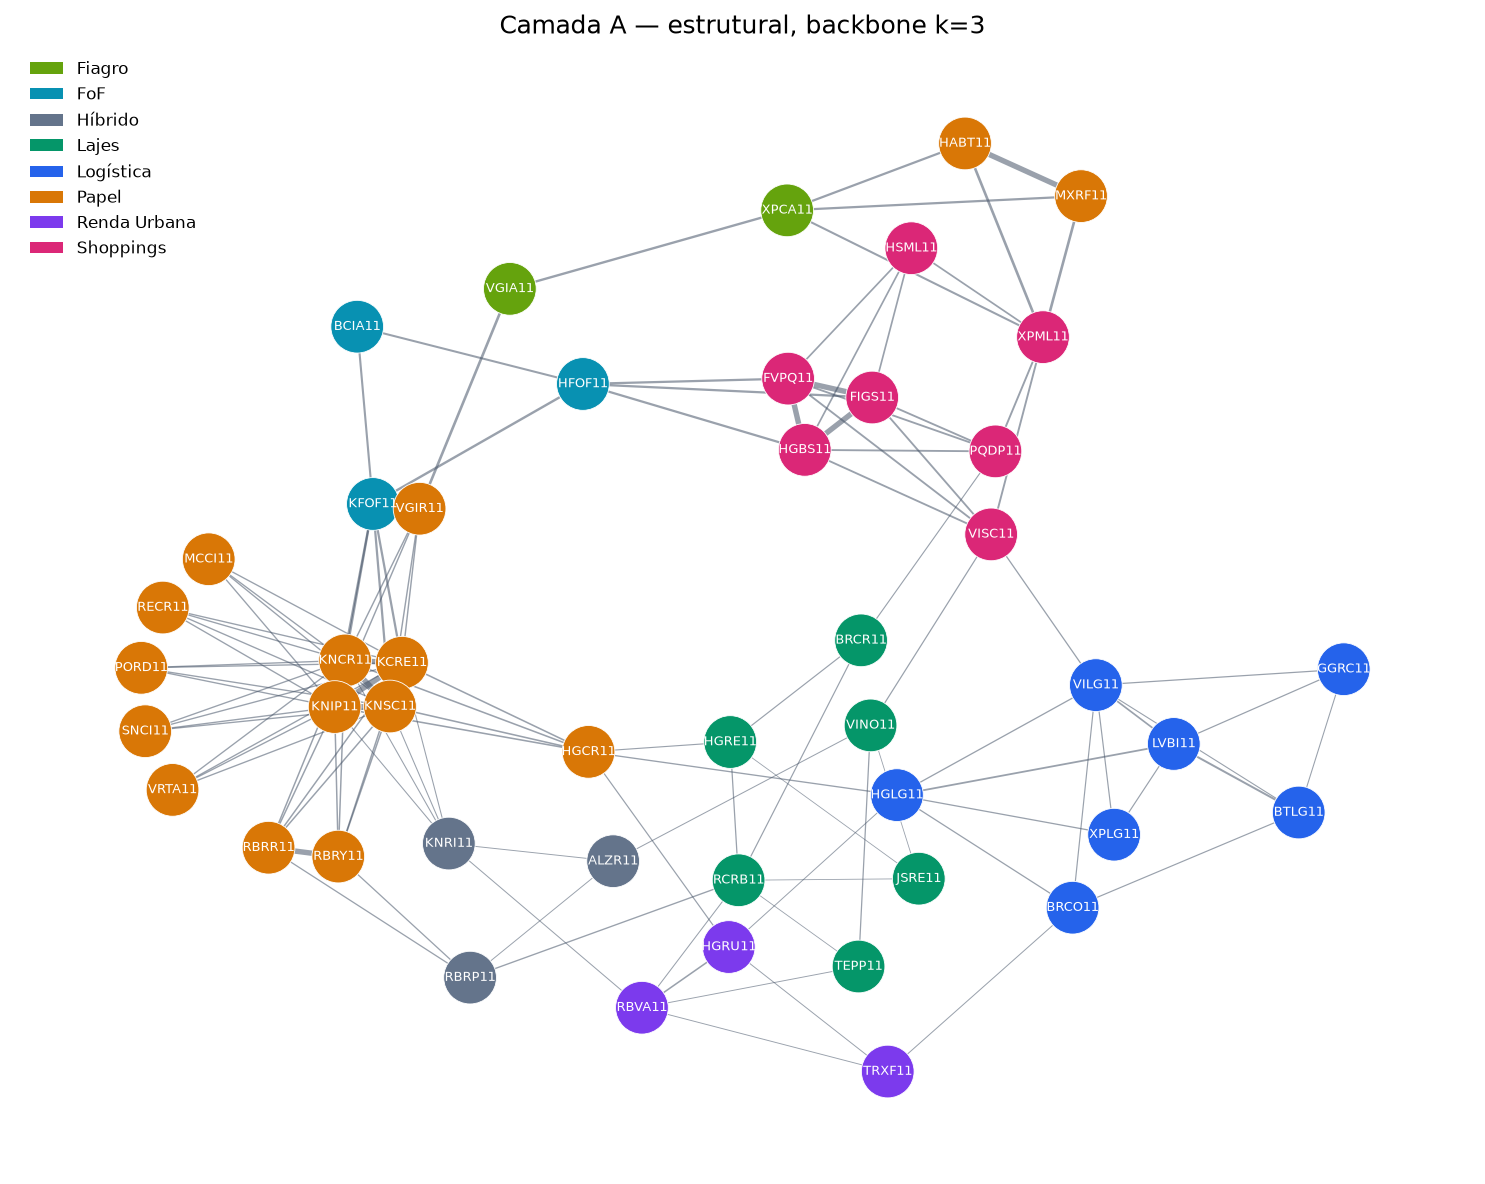
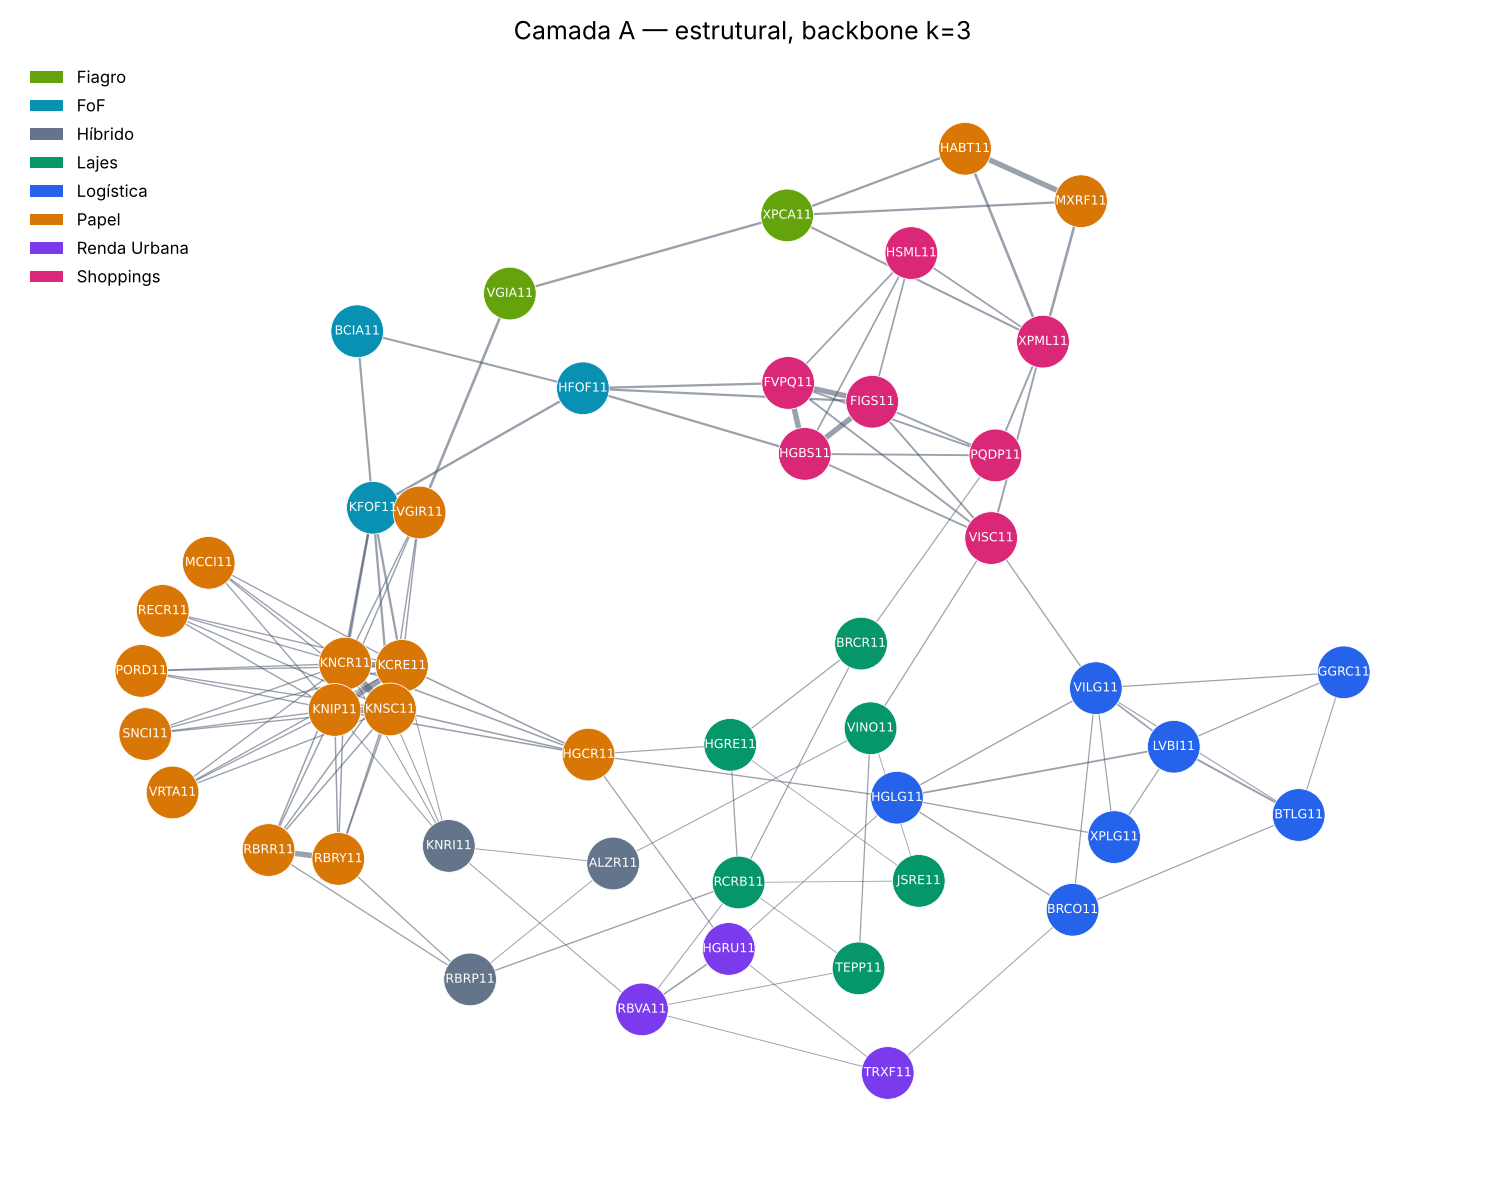
Declara as limitacoes das camadas B e C, com os numeros reproduziveis
As limitacoes levantadas na conferencia estavam so no backlog. Entram nos
dois documentos da frente 2, e o frente2.py passa a gerar a tabela que as
sustenta (09_diagnostico_limitacoes), para o relatorio poder cita-las.

Camada B
- um fator domina: 1o autovalor 9,77 (21,2% da variancia) e so 2 passam do
  limite de Marchenko-Pastur (1,70), sendo o 2o 1,74. Na pratica um fator so
- regime muda dentro da janela: rho medio 0,08 em 2023 e 0,27 em 2024, com
  correlacao de 0,17 entre as duas matrizes
- frequencia diaria subestima fundo iliquido: mediana de rho 0,19 diaria
  contra 0,32 semanal

Camada C
- patrimonio liquido e liquidez tem correlacao 0,92: o porte pesa duas vezes
- indicadores sao da data da coleta, nao do periodo 2023-2024

Validacao
- Louvain e Leiden empatam em Q = 0,574 com particoes de 6 e 5 comunidades;
  ARI entre sementes 0,69. A modularidade e estavel, a particao nao

Nenhum numero do modelo muda.

diff --git a/docs/frente2-modelagem.tex b/docs/frente2-modelagem.tex
@@ -249,20 +249,49 @@ nesse indicador.
 
 \subsection{Limitações da modelagem}
 
-A modelagem está sujeita a cinco limitações que condicionam a leitura dos
-resultados. Em primeiro lugar, os limiares constituem decisões de modelagem e
-não parâmetros estimados, razão pela qual a análise de sensibilidade documenta
-o comportamento das métricas sob valores alternativos. Em segundo lugar, a
-correlação é sensível à janela adotada e a mudanças de regime, de modo que os
-resultados se referem especificamente ao biênio 2023--2024. Em terceiro lugar,
-a presença de aresta na Camada B não implica correlação elevada, dado que a
-árvore geradora impõe $n-1$ arestas independentemente de sua intensidade. Em
-quarto lugar, a Camada A depende da qualidade dos atributos declarados: os
-locatários só se aplicam aos vinte e seis fundos de tijolo, dos quais sete
-apresentam relação genérica, descartada, de modo que vinte e sete dos
-quarenta e seis fundos não contribuem com locatários. Por fim, a
+A modelagem está sujeita a um conjunto de limitações que condicionam a leitura
+dos resultados. De início, cumpre registrar que os limiares constituem
+decisões de modelagem e não parâmetros estimados, razão pela qual a análise de
+sensibilidade documenta o comportamento das métricas sob valores alternativos.
+
+No que se refere à Camada A, a construção depende da qualidade dos atributos
+declarados: os locatários só se aplicam aos vinte e seis fundos de tijolo, dos
+quais sete apresentam relação genérica, descartada, de modo que vinte e sete
+dos quarenta e seis fundos não contribuem com locatários. Além do mais, a
 normalização do Jaccard pela união faz com que fundos com mais atributos
 registrados tendam a apresentar pesos menores, o que exige ressalva ao
 comparar pesos entre segmentos distintos, embora a comparação dentro de um
 mesmo segmento permaneça válida. O atributo que permitiria distinguir os
 fundos de papel entre si, o indexador, não foi coletado.
+
+Quanto à Camada B, a limitação mais relevante reside no fato de a estrutura de
+correlação ser dominada por um único fator. O primeiro autovalor da matriz
+corresponde a $21{,}2\%$ da variância total, e apenas dois autovalores superam
+o limite de ruído de Marchenko--Pastur, igual a $1{,}70$ para $n = 46$ e
+$T = 497$, sendo o segundo de $1{,}74$, imediatamente acima desse limite.
+Depreende-se que parcela expressiva do co-movimento captado corresponde ao
+mercado como um todo, e não a afinidade entre fundos específicos. Soma-se a
+isso a ocorrência de mudança de regime no interior da própria janela: a
+correlação média passa de $0{,}08$ em 2023 para $0{,}27$ em 2024, e as
+matrizes dos dois anos apresentam correlação de apenas $0{,}17$ entre si, de
+maneira que a rede descreve o biênio como um todo e não um ano isolado.
+Outrossim, a frequência diária subestima a correlação de fundos pouco
+negociados, cujo preço não se altera a cada pregão: a mediana de $\rho$ é de
+$0{,}19$ no retorno diário e de $0{,}32$ no semanal. Por fim, a presença de
+aresta nessa camada não implica correlação elevada, dado que a árvore geradora
+impõe $n-1$ arestas independentemente de sua intensidade.
+
+Na Camada C, dois dos cinco indicadores medem essencialmente a mesma dimensão:
+o patrimônio líquido e a liquidez diária apresentam correlação de $0{,}92$, de
+modo que o porte do fundo influencia duas vezes a distância euclidiana.
+Acrescente-se que os indicadores correspondem à data da coleta e não ao
+período 2023--2024, ao passo que a Camada B descreve o biênio, o que impõe
+cautela na comparação direta entre ambas.
+
+Cabe, por fim, uma ressalva quanto à validação: na Camada A, os algoritmos de
+Louvain e de Leiden alcançam o mesmo valor de modularidade, $Q = 0{,}574$, com
+partições distintas, de seis e cinco comunidades respectivamente, e o índice
+Rand ajustado entre execuções do Louvain com sementes diferentes é de
+$0{,}69$. A modularidade mostra-se estável, a partição não, razão pela qual o
+número de comunidades e a concordância com o segmento devem ser lidos como
+ordem de grandeza.

diff --git a/src/frente2.py b/src/frente2.py
@@ -225,6 +225,61 @@ def _curva(ax, xs, tabela, escolhido, titulo, xlabel):
 
 
 # -------------------------------------------------------------- desenhos
+def diagnostico_limitacoes(corr, ret, cont):
+    """
+    Mede as limitações das Camadas B e C que o relatório precisa declarar,
+    para que os números citados no texto sejam reproduzíveis.
+
+    Fator de mercado: compara o espectro da matriz de correlação com o limite
+    de ruído de Marchenko-Pastur, (1 + sqrt(N/T))^2. Autovalor abaixo desse
+    limite é indistinguível do que se obteria com séries aleatórias.
+
+    Regime: a matriz de 2023 contra a de 2024.
+
+    Frequência: a correlação diária subestima o co-movimento de ativo pouco
+    negociado, porque o preço não se move todo dia.
+
+    Colinearidade da Camada C: dois indicadores muito correlacionados fazem a
+    mesma dimensão pesar duas vezes na distância euclidiana.
+    """
+    N, T = len(corr), len(ret)
+    iu = np.triu_indices(N, 1)
+    ev = np.sort(np.linalg.eigvalsh(corr.values))[::-1]
+    limite = (1 + np.sqrt(N / T)) ** 2
+
+    r23 = ret[ret.index.year == 2023]
+    r24 = ret[ret.index.year == 2024]
+    m23 = gr.matriz_correlacao(r23).values[iu]
+    m24 = gr.matriz_correlacao(r24).values[iu]
+    semanal = gr.matriz_correlacao(ret.resample("W").sum()).values[iu]
+
+    c = cont.corr().abs().to_numpy(copy=True)
+    np.fill_diagonal(c, 0.0)
+    i, j = np.unravel_index(np.argmax(c), c.shape)
+
+    linhas = [
+        ("fator de mercado", "1º autovalor", round(ev[0], 2),
+         f"{ev[0] / N:.1%} da variância total"),
+        ("fator de mercado", "limite de ruído (Marchenko-Pastur)",
+         round(limite, 2), f"N={N}, T={T}"),
+        ("fator de mercado", "autovalores acima do ruído", int((ev > limite).sum()),
+         f"o 2º é {ev[1]:.2f}, logo acima do limite"),
+        ("regime", "ρ médio em 2023", round(m23.mean(), 2), f"{len(r23)} pregões"),
+        ("regime", "ρ médio em 2024", round(m24.mean(), 2), f"{len(r24)} pregões"),
+        ("regime", "correlação entre as matrizes de 2023 e 2024",
+         round(np.corrcoef(m23, m24)[0, 1], 2), "sobre os pares"),
+        ("frequência", "mediana de ρ, retorno diário",
+         round(np.median(corr.values[iu]), 2), f"{T} pregões"),
+        ("frequência", "mediana de ρ, retorno semanal",
+         round(np.median(semanal), 2), "agregando os retornos por semana"),
+        ("camada C", f"maior correlação entre indicadores "
+         f"({cont.columns[i]} × {cont.columns[j]})",
+         round(c[i, j], 2), "mede a mesma dimensão duas vezes"),
+    ]
+    return pd.DataFrame(linhas, columns=["tema", "medida", "valor", "observação"]
+                        ).set_index(["tema", "medida"])
+
+
 def _cores(G, atrib):
     return [cam.PALETA.get(atrib.loc[n, "segmento"], "#94a3b8") for n in G]
 
@@ -338,6 +393,7 @@ def main():
          "camadas conexas, com grau médio entre 3,0 e 5,3"},
     ]).set_index("limiar")
     salva_tabela(escolhidos, "07_limiares_escolhidos")
+    salva_tabela(diagnostico_limitacoes(corr, ret, cont), "09_diagnostico_limitacoes")
 
     so_mst = {(a, b) for a, b, d in GB.edges(data=True) if d["origem"] == "mst"}
     desenha(GA, atrib, f"Camada A — estrutural, backbone k={cam.K_BACKBONE_A}",

diff --git a/out/frente2/09_diagnostico_limitacoes.tex b/out/frente2/09_diagnostico_limitacoes.tex
@@ -1,0 +1,20 @@
+\begin{tabular}{llrl}
+\toprule
+ &  & valor & observação \\
+tema & medida &  &  \\
+\midrule
+\multirow[t]{3}{*}{fator de mercado} & 1º autovalor & 9.770 & 21.2\% da variância total \\
+ & limite de ruído (Marchenko-Pastur) & 1.700 & N=46, T=497 \\
+ & autovalores acima do ruído & 2.000 & o 2º é 1.74, logo acima do limite \\
+\cline{1-4}
+\multirow[t]{3}{*}{regime} & ρ médio em 2023 & 0.080 & 246 pregões \\
+ & ρ médio em 2024 & 0.270 & 251 pregões \\
+ & correlação entre as matrizes de 2023 e 2024 & 0.170 & sobre os pares \\
+\cline{1-4}
+\multirow[t]{2}{*}{frequência} & mediana de ρ, retorno diário & 0.190 & 497 pregões \\
+ & mediana de ρ, retorno semanal & 0.320 & agregando os retornos por semana \\
+\cline{1-4}
+camada C & maior correlação entre indicadores (patrimonio\_liquido × liquidez) & 0.920 & mede a mesma dimensão duas vezes \\
+\cline{1-4}
+\bottomrule
+\end{tabular}

diff --git a/docs/frente2-thresholds.md b/docs/frente2-thresholds.md
@@ -232,19 +232,60 @@ diferentes. Se uma delas fosse redundante, apareceria aqui.
 
 ## Limitações a declarar no relatório
 
+Os números citados abaixo saem de
+`out/frente2/09_diagnostico_limitacoes.csv`, gerado pelo próprio
+`src/frente2.py`.
+
+### Gerais
+
 - Os cinco limiares são decisões de modelagem. A varredura em
   `out/frente2/` mostra como as métricas respondem a cada um.
-- A correlação é sensível à janela e a mudanças de regime. O período usado é
-  2023–2024 e deve ser reportado junto com qualquer resultado.
 - Nove fundos ficaram fora por qualidade de dados, não por irrelevância.
-- A Camada A depende de `segmento`, `gestora` e `inquilinos`. Inquilino só
-  existe para os 26 fundos de tijolo, e 7 deles (os shoppings) têm lista
-  genérica, ignorada: 27 dos 46 fundos ficam sem inquilino.
+
+### Camada A
+
+- Depende de `segmento`, `gestora` e `inquilinos`. Inquilino só existe para os
+  26 fundos de tijolo, e 7 deles (os shoppings) têm lista genérica, ignorada:
+  27 dos 46 fundos ficam sem inquilino.
 - O Jaccard divide pela união, então o fundo sobre o qual temos mais
   informação tem mais chance de divergir (viés de cobertura −0,72). Peso
   médio intra-Logística 0,158 contra 0,324 intra-Papel no backbone. Comparar
   pesos **entre** segmentos exige essa ressalva; **dentro** do mesmo segmento
   vale. O atributo que resolveria os empates que restam no Papel é o
   `indexador` (CDI × IPCA), que não foi coletado.
-- A presença de aresta na Camada B não implica correlação alta, por causa das
-  arestas da MST.
+
+### Camada B
+
+- **Um único fator domina a correlação.** O primeiro autovalor da matriz vale
+  9,77, isto é, 21,2% da variância total, e apenas dois autovalores superam o
+  limite de ruído de Marchenko-Pastur, que para N=46 e T=497 é 1,70 — e o
+  segundo vale 1,74, logo acima. Na prática há um fator só, o mercado. Boa
+  parte do co-movimento captado pela camada é o mercado inteiro subindo e
+  descendo junto, não afinidade entre fundos específicos. Qualquer conclusão
+  tirada da Camada B precisa dessa ressalva.
+- **Mudança de regime dentro da janela.** O ρ médio passa de 0,08 em 2023 para
+  0,27 em 2024, e as matrizes de correlação dos dois anos têm correlação de
+  apenas 0,17 entre si. A rede da Camada B descreve o biênio como um todo e
+  não vale para um ano isolado.
+- **A frequência diária subestima o fundo ilíquido.** A mediana de ρ é 0,19 no
+  retorno diário e 0,32 no semanal, porque o preço de um fundo pouco negociado
+  não se move todo dia. O valor semanal coincide com o ρ* adotado, o que ajuda
+  a enquadrar a escolha do limiar.
+- A presença de aresta não implica correlação alta, por causa das arestas da
+  MST.
+
+### Camada C
+
+- **Dois dos cinco indicadores medem a mesma coisa.** Patrimônio líquido e
+  liquidez diária têm correlação 0,92, de modo que o tamanho do fundo pesa
+  duas vezes na distância euclidiana.
+- Os indicadores são da data da coleta, não do período 2023–2024. A Camada C
+  descreve o fundo hoje, enquanto a Camada B descreve o biênio, e as duas são
+  comparadas entre si.
+
+### Validação
+
+- **A modularidade é estável, a partição não.** Na Camada A, Louvain e Leiden
+  empatam em Q = 0,574 com partições diferentes, de 6 e 5 comunidades, e o ARI
+  entre sementes do Louvain é 0,69. O número de comunidades e o ARI com o
+  segmento devem ser lidos como ordem de grandeza, não como valor exato.

diff --git a/README.md b/README.md
@@ -88,7 +88,7 @@ A base de atributos usada pela Frente 2 é gerada por
 - `data.py`, `main.py` — protótipo inicial com dados simulados
 
 ### Documentação — `docs/`
-- `frente2-thresholds.md` — calibragem dos limiares, com as tabelas da varredura
+- `frente2-thresholds.md` — calibragem dos limiares, tabelas da varredura e limitações a declarar
 - `frente2-camada-a.md` — decisões da Camada A (inquilinos, peso Jaccard,
   backbone com empates), com os testes de cada uma
 - `frente2-modelagem.tex` — seção de Modelagem em LaTeX, pronta para o Overleaf
